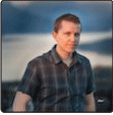
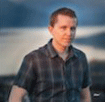
Profile section completed

diff --git a/assets/dist/min/main.min.css b/assets/dist/min/main.min.css
@@ -1,1 +1,1 @@
-body{background:url(../../src/images/background.jpg)}body section.container{margin-top:30px}body section.container article{background-color:#fff;border:1px solid #c5c3c2;margin-bottom:7px;border-radius:3px}header{background-color:#fff;border-top:1px solid #c5c3c2;border-bottom:3px solid #c5c3c2}header .container{height:63px;max-width:1040px}header .container .header-logo{width:163px;height:63px;background:url(../../src/images/header-logo.png) no-repeat}header .container .header-profile{margin-top:12px}header .container .header-profile .header-profile-photo{width:30px;height:30px;margin:5px}header .container .header-profile .header-username{font-size:18px;line-height:28px;margin-top:5px}header .container .header-profile .ask-advice-btn{padding-left:10px;padding-right:10px;background-color:#5a6b4b;font-size:15px;font-weight:700;color:#fff;margin-left:30px}.profile{height:147px}
+body{background:url(../../src/images/background.jpg);font-family:'PT Sans',sans-serif}body section.container{margin-top:30px}body section.container article{background-color:#fff;border:1px solid #c5c3c2;margin-bottom:7px;border-radius:3px}header{background-color:#fff;border-top:1px solid #c5c3c2;border-bottom:3px solid #c5c3c2}header .container{height:63px;max-width:1040px}header .container .header-logo{width:163px;height:63px;background:url(../../src/images/header-logo.png) no-repeat}header .container .header-profile{margin-top:12px}header .container .header-profile .header-profile-photo{width:30px;height:30px;margin:5px 3px}header .container .header-profile .header-username{font-size:18px;line-height:28px;margin-top:5px}header .container .header-profile .ask-advice-btn{padding-left:10px;padding-right:10px;background-color:#5a6b4b;font-family:Arimo,sans-serif;font-size:15px;font-weight:700;color:#fff;margin-left:30px}article.profile{height:147px}article.profile .profile-photo{width:115px;height:115px;margin:16px;border-radius:3px;border:1px solid #202223}article.profile .headline-container{font-family:Arimo,sans-serif}article.profile .headline-container .headline{font-size:32px;line-height:34px;margin:25px 0 20px;padding-left:35px}article.profile .headline-container .tagline{font-size:16px;margin:0;padding-left:25px}article.profile .share-contact-btns-container{float:right;margin-top:118px;margin-right:-1px}article.profile .share-contact-btns-container .contact,article.profile .share-contact-btns-container .share{font-family:Arimo,sans-serif;font-size:15px;padding:0 11px;height:29px;background-color:#f2ecde;color:#a5a3a2;border-top:1px dotted #878887;border-left:1px dotted #878887;border-right:0;border-bottom:0;border-radius:0}

diff --git a/assets/src/main.html b/assets/src/main.html
@@ -5,9 +5,12 @@
 	<meta http-equiv="Content-Type" content="text/html; charset=UTF-8" />
 	<meta name="viewport" content="width=device-width, initial-scale=1"/>
 	
-	<link rel="stylesheet" href="../dist/min/main.min.css"/>
 	<link rel="stylesheet" href="../dist/libs/css/skeleton.css"/>
 	<link rel="stylesheet" href="../dist/libs/css/normalize.css"/>
+	<link rel="stylesheet" href="../dist/min/main.min.css"/>
+	
+	<link href='http://fonts.googleapis.com/css?family=Arimo' rel='stylesheet' type='text/css'>
+	<link href='http://fonts.googleapis.com/css?family=PT+Sans' rel='stylesheet' type='text/css'>
 	
 </head>
 <body>
@@ -31,15 +34,19 @@
 		<article class="profile">
 			<div class="row">
 				<div class="four columns">
-					<img src=""/>
+					<img class="profile-photo" src="images/profile-photo.png" width="115" height="115"/>
+				</div>
+				<div class="four columns headline-col">
+					<div class="headline-container">
+						<p class="headline">Nathan Benson</p>
+						<p class="tagline">Technology Enthusiast analyzing, building, and expanding solutions</p>
+					</div>
 				</div>
 				<div class="four columns">
-					<p>Nathan Benson</p>
-					<p>Technology Enthusiast analyzing, building, and expanding solutions</p>
-				</div>
-				<div class="four columns">
-					<button class="u-pull-left">share</button>
-					<button class="u-pull-left">contact</button>
+					<div class="share-contact-btns-container">
+						<button class="u-pull-left share">share</button>
+						<button class="u-pull-left contact">contact</button>
+					</div>
 				</div>
 			</div>
 		</article>

diff --git a/assets/dist/min/register.min.css b/assets/dist/min/register.min.css
@@ -1,1 +1,1 @@
-body{background:url(../../src/images/background.jpg)}body section{margin-top:30px}body section article{background-color:#fff;border:1px solid #c5c3c2;margin-bottom:7px;border-radius:3px}.profile{height:147px}
+body{background:url(../../src/images/background.jpg)}body section{margin-top:30px}body section article{background-color:#fff;border:1px solid #c5c3c2;margin-bottom:7px;border-radius:3px}article.profile{height:147px}article.profile .profile-photo{width:115px;height:115px;margin:16px;border-radius:3px;border:1px solid #202223}article.profile .headline-container{font-family:Arimo,sans-serif}article.profile .headline-container .headline{font-size:32px;line-height:34px;margin:25px 0 20px;padding-left:35px}article.profile .headline-container .tagline{font-size:16px;margin:0;padding-left:25px}article.profile .share-contact-btns-container{float:right;margin-top:118px;margin-right:-1px}article.profile .share-contact-btns-container .contact,article.profile .share-contact-btns-container .share{font-family:Arimo,sans-serif;font-size:15px;padding:0 11px;height:29px;background-color:#f2ecde;color:#a5a3a2;border-top:1px dotted #878887;border-left:1px dotted #878887;border-right:0;border-bottom:0;border-radius:0}

diff --git a/assets/src/register.html b/assets/src/register.html
@@ -5,9 +5,13 @@
 	<meta http-equiv="Content-Type" content="text/html; charset=UTF-8" />
 	<meta name="viewport" content="width=device-width, initial-scale=1">
 	
-	<link rel="stylesheet" href="../dist/min/register.min.css">
-	<link rel="stylesheet" href="../dist/libs/css/skeleton.css">
+	<link rel="stylesheet" href="../dist/libs/css/skeleton.css"/>
 	<link rel="stylesheet" href="../dist/libs/css/normalize.css"/>
+	<link rel="stylesheet" href="../dist/min/register.min.css">
+
+	<link href='http://fonts.googleapis.com/css?family=Arimo' rel='stylesheet' type='text/css'>
+	<link href='http://fonts.googleapis.com/css?family=PT+Sans' rel='stylesheet' type='text/css'>
+	
 </head>
 <body>
 

diff --git a/assets/src/css/_mixins.scss b/assets/src/css/_mixins.scss
@@ -21,7 +21,31 @@
 	padding-left: 10px;
 	padding-right: 10px;
 	background-color: #5a6b4b;
+	font-family: 'Arimo', sans-serif;
 	font-size: 15px;
 	font-weight: bold;
 	color: $white;
+}
+
+@mixin profile-photo(){
+	width: 115px;
+	height: 115px;
+	margin: 16px;
+	border-radius: 3px;
+	border: 1px solid #202223;
+}
+
+@mixin share-contact-btn(){
+	font-family: 'Arimo', sans-serif;
+	font-size: 15px;
+	padding: 0 11px;
+	height: 29px;
+	background-color: #f2ecde;
+	color: #a5a3a2;
+	border-top: 1px dotted #878887;
+	border-left: 1px dotted #878887;
+	border-right: 0;
+	border-bottom: 0;
+	border-radius: 0;
+
 }

diff --git a/assets/src/css/_profile.scss b/assets/src/css/_profile.scss
@@ -1,3 +1,39 @@
-.profile {
+article.profile {
 	height: $profile-height;
+
+	.profile-photo {
+		@include profile-photo();
+	}
+
+	.headline-container {
+		font-family: Arimo,sans-serif;
+
+		.headline {
+			font-size: 32px;
+			line-height: 34px;
+			margin: 25px 0 20px 0;
+			padding-left: 35px;
+		}
+
+		.tagline {
+			font-size: 16px;
+			margin: 0;
+			padding-left: 25px;
+		}
+	}
+
+	.share-contact-btns-container {
+		float: right;
+		margin-top: 118px;
+		margin-right: -1px;
+
+		.share {
+			@include share-contact-btn();
+		}
+
+		.contact {
+			@include share-contact-btn();
+		}
+	}
+
 }

diff --git a/assets/src/css/_header.scss b/assets/src/css/_header.scss
@@ -15,7 +15,7 @@ header {
 			.header-profile-photo {
 				width: 30px;
 				height: 30px;
-				margin: 5px;
+				margin: 5px 3px;
 			}
 
 			.header-username {

diff --git a/assets/src/css/main.scss b/assets/src/css/main.scss
@@ -3,6 +3,7 @@
 
 body {
 	background: url('../../src/images/background.jpg');
+	font-family: 'PT Sans', sans-serif;
 
 	section.container {
 		margin-top: 30px;

diff --git a/assets/src/css/_variables.scss b/assets/src/css/_variables.scss
@@ -1,6 +1,5 @@
 // colors
 $white: #ffffff;
-$body-bkg-color: #f1ebe1;
 $article-border-color: #c5c3c2;
 
 
